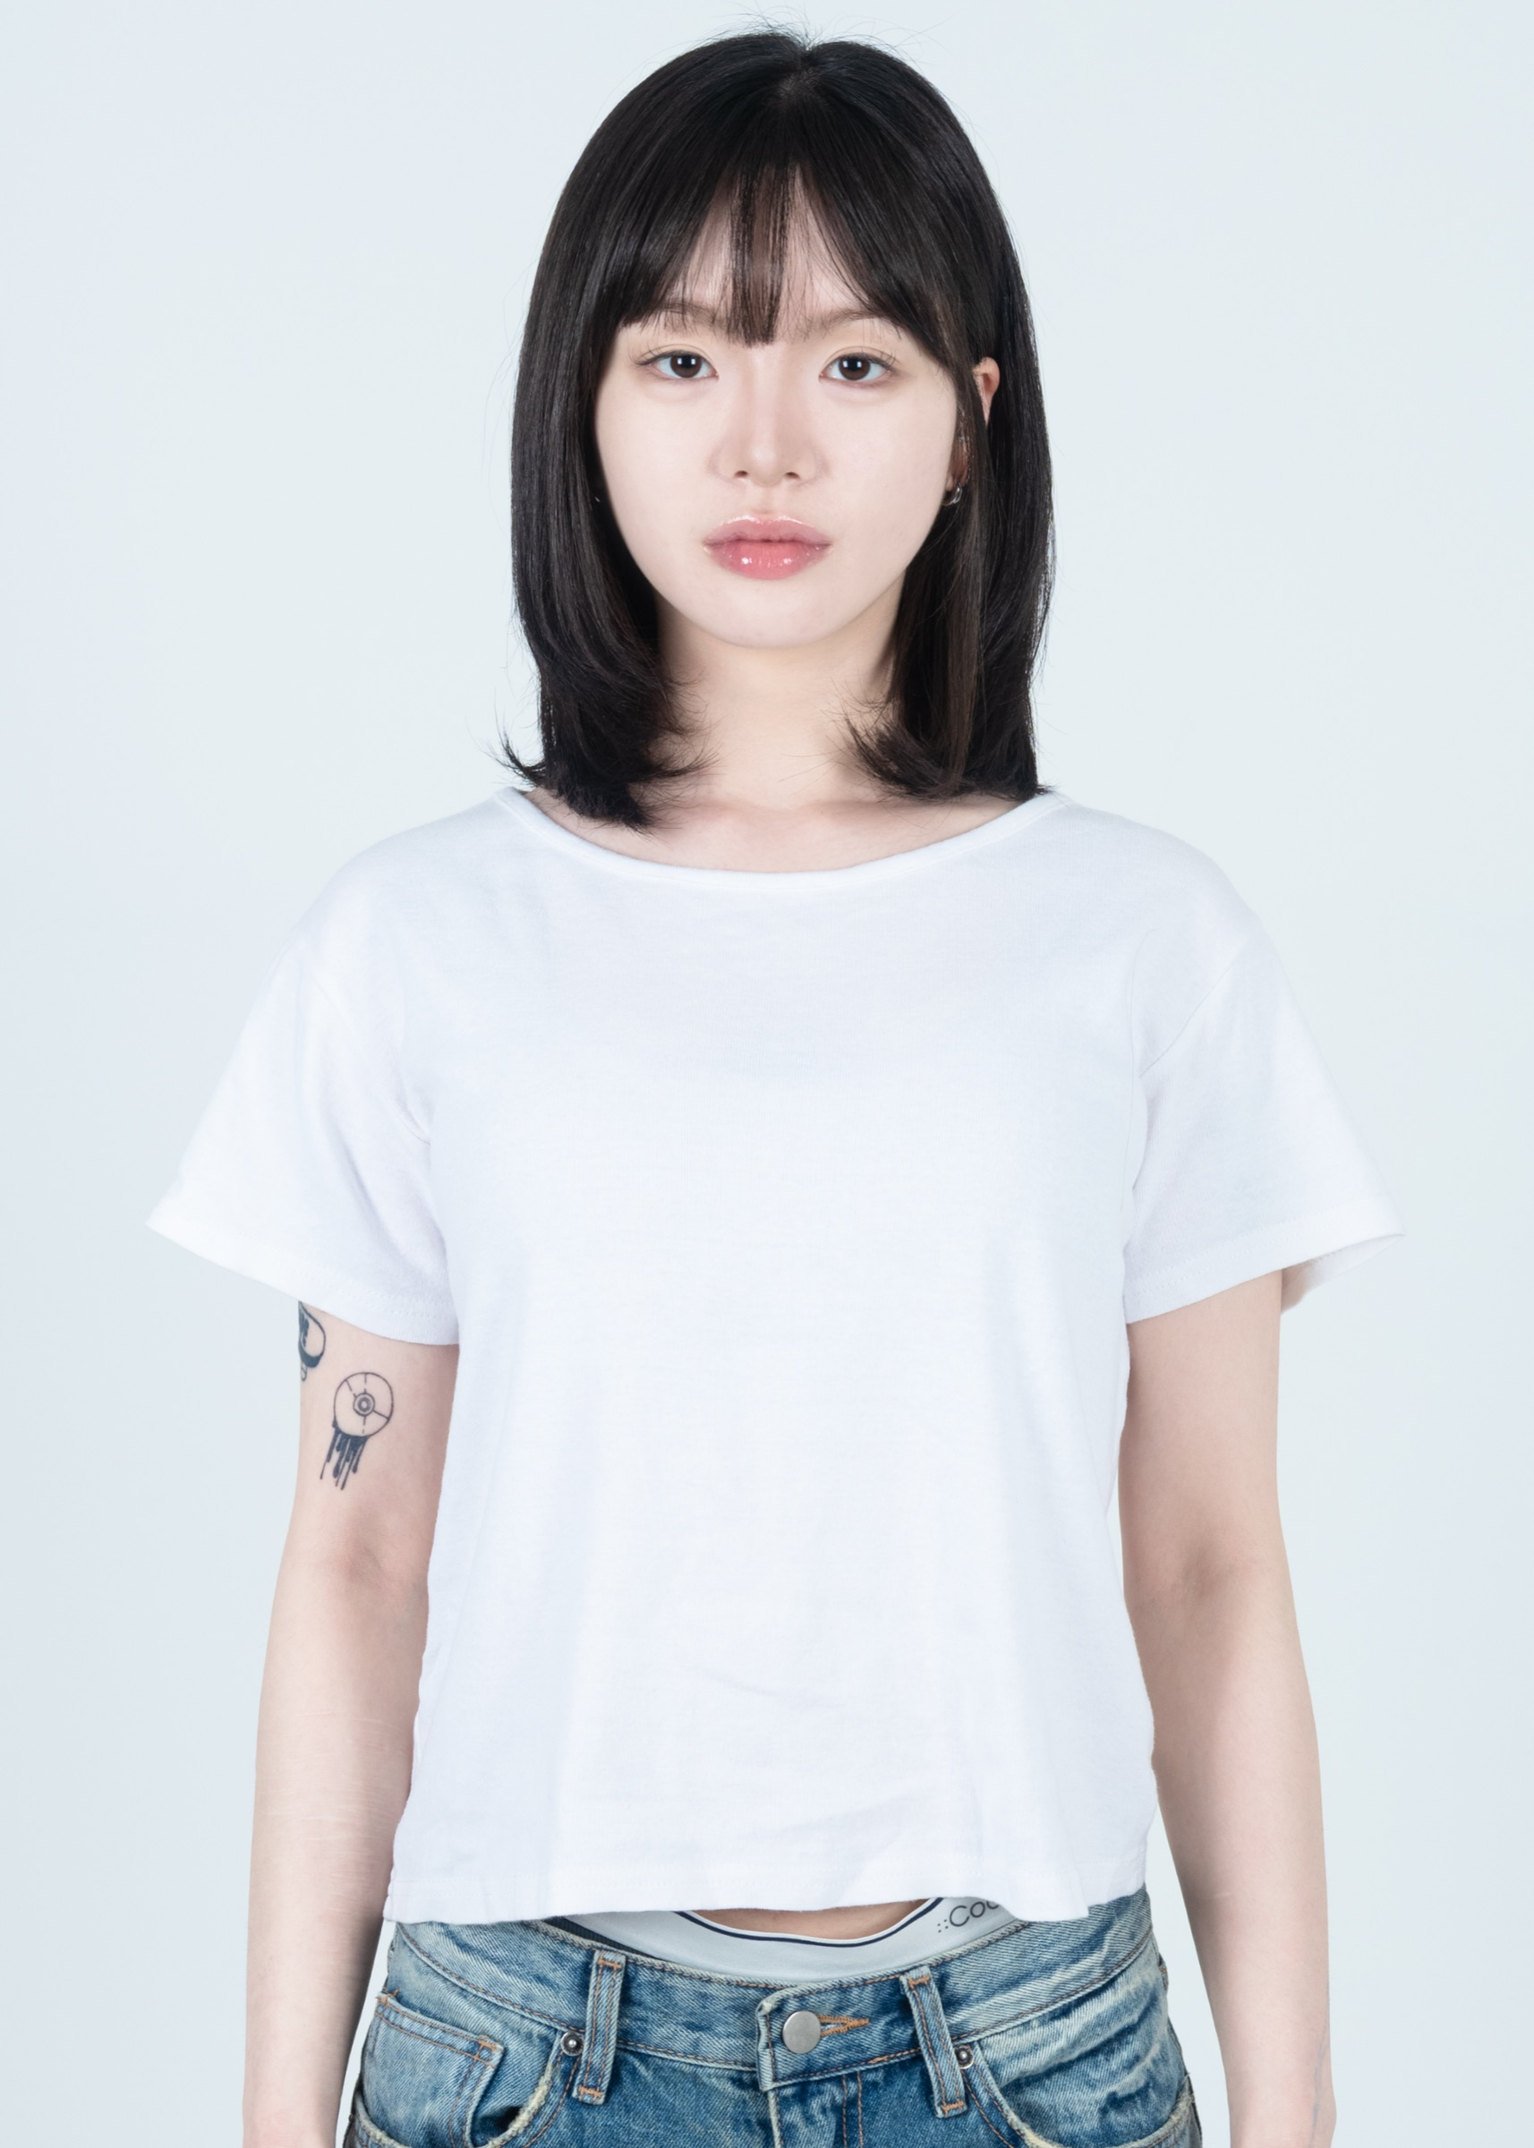
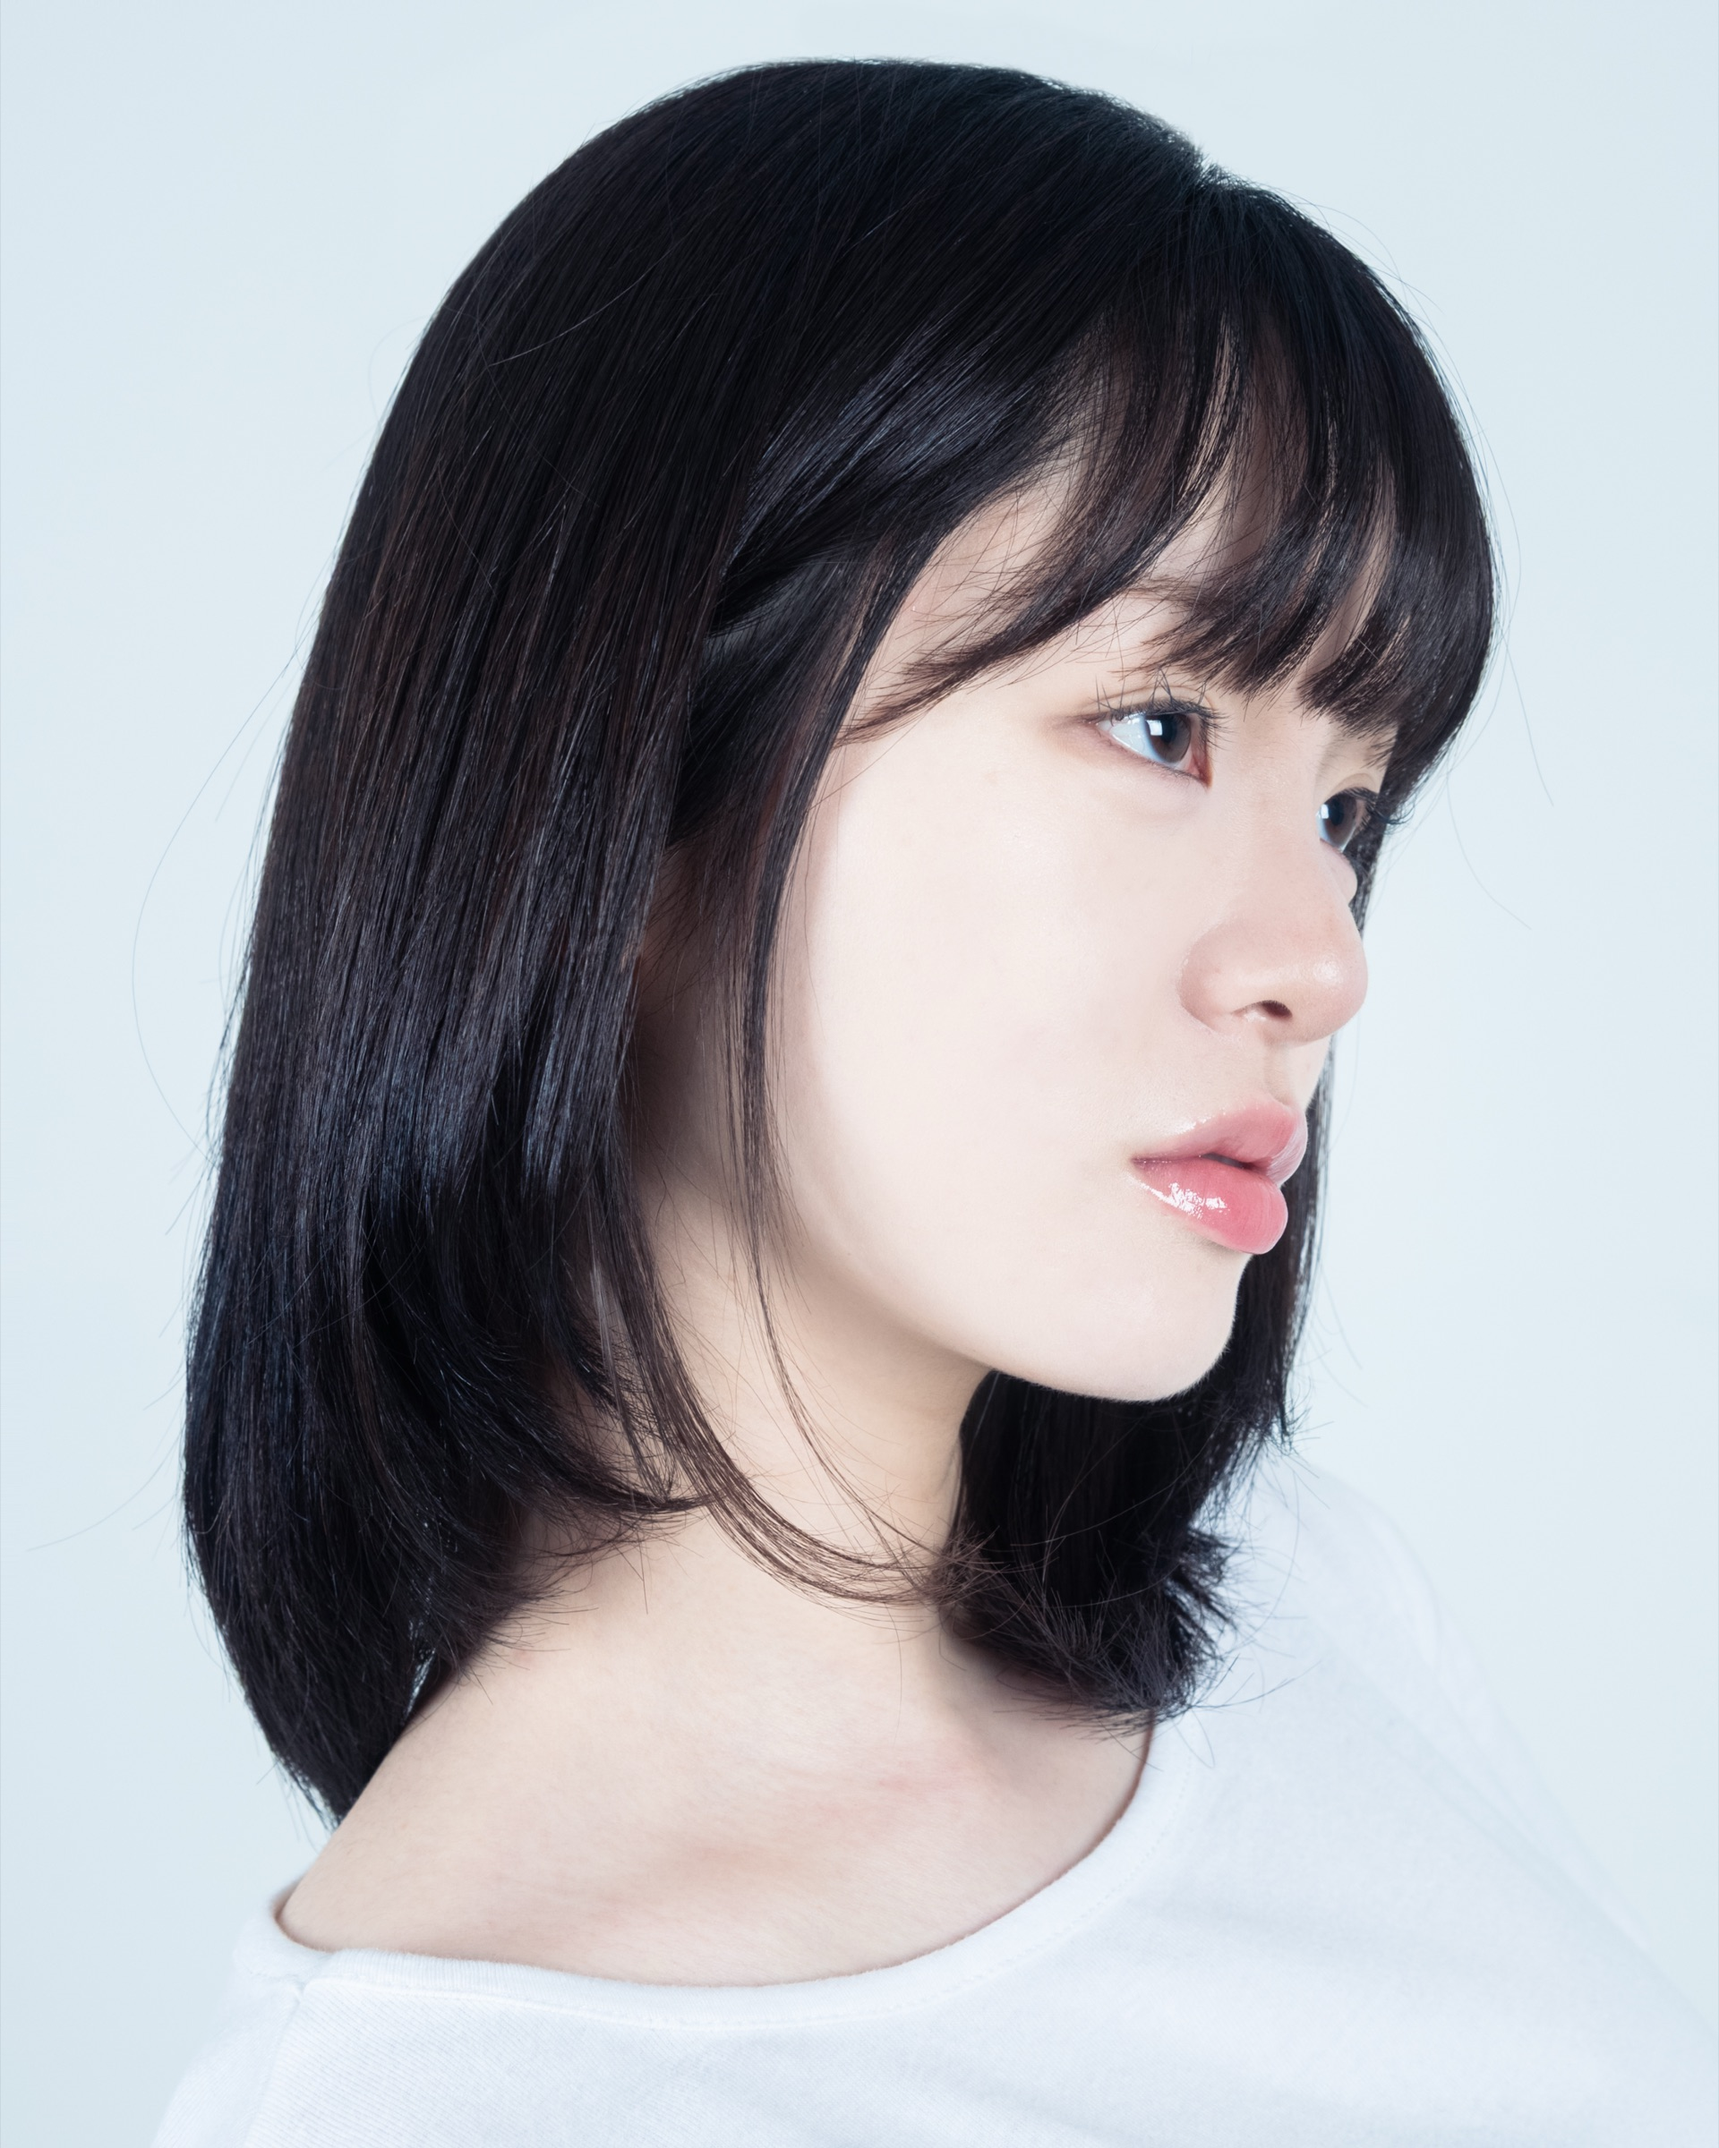
Comp Card 16번(모델 03 마지막) 사진 교체

diff --git a/js/data.js b/js/data.js
@@ -389,7 +389,7 @@ window.PROJECTS = [
           { src: "images/compcard/m3-02.jpg", ratio: "1920/2400", caption: "" },
           { src: "images/compcard/m3-03.jpg", ratio: "1919/2400", caption: "" },
           { src: "images/compcard/m3-04.jpg", ratio: "1902/2400", caption: "" },
-          { src: "images/compcard/m3-05.jpg", ratio: "1714/2400", caption: "" }
+          { src: "images/compcard/m3-05.jpg", ratio: "1920/2400", caption: "" }
       ] }
     ]
   },
